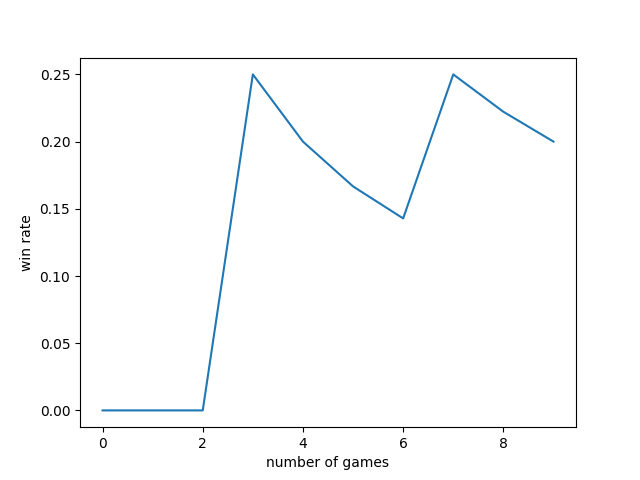
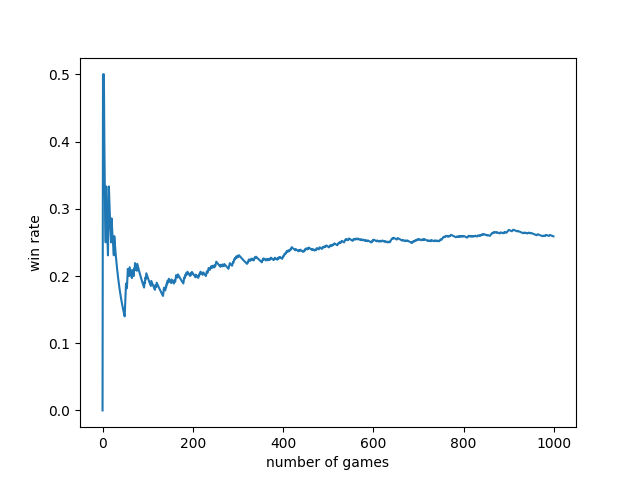
nothing much

diff --git a/Players/StrategyPlayer.py b/Players/StrategyPlayer.py
@@ -1,9 +1,74 @@
 from Players.Player import Player
 import numpy as np
 
+
 class StrategyPlayer(Player):
     def __init__(self):
         super(StrategyPlayer, self).__init__()
 
     def handle_move(self, obs: list, info: dict) -> np.ndarray:
-        return np.ndarray([0, 0, 1, 0])
+        self.index = info['player']
+        self.dice = info['eyes']
+
+        move = np.random.random_sample(size=4)
+
+        self.relative_position = Player.calculate_relative_position(self, obs)
+        future_obs = obs
+
+        current_pawn_position = self.relative_position.copy()
+        current_pawn_position = current_pawn_position.pop(0)
+        enemy_location = np.array(self.relative_position[1:5]).reshape((16, 1))
+
+        closest_pawn_front = np.argmax(enemy_location)
+        closest_pawn_behind = np.argmin(enemy_location)
+
+
+
+        min_pawn = np.argmin(current_pawn_position)
+        max_pawn = np.argmax(current_pawn_position)
+
+        if current_pawn_position[max_pawn] == 0:
+            return move
+
+        if enemy_location[closest_pawn_front] == self.dice:
+            i = 0
+            if 0 <= closest_pawn_front < 4:
+                i = 1
+            elif 4 <= closest_pawn_front <= 8:
+                i = 1
+            elif 8 <= closest_pawn_front < 12:
+                i = 1
+            elif 12 <= closest_pawn_front < 16:
+                i = 1
+            move[i] = 1
+            return move
+
+        if -6 < enemy_location[closest_pawn_behind] < 0:
+            i = 0
+            if 0 <= closest_pawn_behind < 4:
+                i = 1
+            elif 4 <= closest_pawn_behind <= 8:
+                i = 1
+            elif 8 <= closest_pawn_behind < 12:
+                i = 1
+            elif 12 <= closest_pawn_behind < 16:
+                i = 1
+
+            move[i] = 1
+            return move
+
+        if self.dice == 6:
+            if current_pawn_position[max_pawn] > 30:
+                move[max_pawn] = 1
+                return move
+            if current_pawn_position[min_pawn] == 0:
+                move[min_pawn] = 1
+                return move
+        for i in range(len(current_pawn_position)):
+            if current_pawn_position[i] == 1:
+                move[i] = 1
+                return move
+
+        move[max_pawn] = 1
+        return move
+

diff --git a/Environment/TrainEnv.py b/Environment/TrainEnv.py
@@ -4,6 +4,8 @@ import time
 from Players.RandomPlayer import RandomPlayer
 from Players.QPlayer import QPlayer
 from EnvFunctions import EnvFunctions
+from Players.StrategyPlayer import StrategyPlayer
+
 
 final_reward_list = []
 AGGREGATE_STATS_EVERY = 50
@@ -13,16 +15,16 @@ model_name = 'ludo'
 progress = []
 num_wins = 0
 # reset the game
-num_episodes = 500
+num_episodes = 10
 PLAYER2COLOR = ['Yellow', 'Red', 'Blue', 'Green']
 player1 = RandomPlayer()
 fun = EnvFunctions()
 
 training_player = QPlayer(model_name, epsilon=1, episodes=num_episodes)
-player3 = RandomPlayer()
+strategy_player = StrategyPlayer()
 player4 = RandomPlayer()
 # create a list of players
-players = [player1, training_player, player3, player4]
+players = [player1, training_player, strategy_player, player4]
 
 
 start_time = time.time()
@@ -45,8 +47,6 @@ for episode in range(1, num_episodes + 1):
         # pass the action and get the new game state
         obs, reward, done, info = env.step(action)
         # handle the reward
-        # if info['eyes'] == 6:
-        #     print()
 
         if isinstance(current_player, QPlayer):
             episode_reward += current_player.handle_reward(obs, info['player'])
@@ -57,7 +57,7 @@ for episode in range(1, num_episodes + 1):
         training_player.save_previous_obs(obs)
 
         # render for graphical representation of game state
-        # env.render()
+        env.render()
     # compute the winner / ranking
     scores = [sum([pos > 40 for pos in state]) for state in obs]  # no of pawns in target field for each player
     winner = np.argsort(scores)[-1]
@@ -79,7 +79,7 @@ for episode in range(1, num_episodes + 1):
         print('time per {} games: {}'.format(episode, end_time - start_time))
         print('win rate per {} games: {}'.format(episode, win_rate))
         training_player.update_tensorboard_stats(episode_rewards_list, win_rate, AGGREGATE_STATS_EVERY,
-                                                 time= end_time - start_time)
+                                                 time=(end_time - start_time))
 
     training_player.handle_endgame()
     progress.append(num_wins / episode)

diff --git a/Environment/TestEnv.py b/Environment/TestEnv.py
@@ -4,24 +4,30 @@ import time
 from Players.RandomPlayer import RandomPlayer
 from Players.LoadedQPlayer import LoadedQPlayer
 import matplotlib.pyplot as plt
+from Players.StrategyPlayer import StrategyPlayer
+from EnvFunctions import EnvFunctions
 
 AGGREGATE_STATS_EVERY = 50
 MIN_REWARD = -10
-progress = []
-num_wins = 0
+q_progress = []
+strategy_progress = []
 # reset the game
 num_episodes = 1000
 PLAYER2COLOR = ['Yellow', 'Red', 'Blue', 'Green']
 player1 = RandomPlayer()
 q_player = LoadedQPlayer()
-player3 = RandomPlayer()
+strategy_player = StrategyPlayer()
 player4 = RandomPlayer()
 # create a list of players
-players = [player1, q_player, player3, player4]
+players = [player1, q_player, strategy_player, player4]
 start = time.time()
+strategy_win = 0
+load_q_win = 0
+fun = EnvFunctions()
+
 for episode in range(1, num_episodes + 1):
     if episode % 100 == 0:
-        print("win per", episode, ":", num_wins)
+        print(episode, load_q_win, strategy_win)
 
     # create an instance of the game with 4 players
     env = make(num_players=4)
@@ -42,11 +48,14 @@ for episode in range(1, num_episodes + 1):
     winner = np.argsort(scores)[-1]
     # print(f'Player {players[winner].index} has won!', obs)
     if players[winner] == q_player:
-        num_wins += 1
+        load_q_win += 1
+    elif players[winner] == strategy_player:
+        strategy_win += 1
 
-    if episode % 20 == 0:
-        progress.append(num_wins/episode)
+    if episode > 20:
+        q_progress.append(load_q_win/episode)
+        strategy_progress.append(strategy_win/episode)
 
-print(num_wins)
-plt.plot(progress)
-plt.savefig('progress of test env.')
+fun.plot_array(strategy_progress, "strategy progress", x_label="number of games", y_label="win rate")
+fun.plot_array(q_progress, "Q progress", x_label="number of games", y_label="win rate")
+

diff --git a/Players/QPlayer.py b/Players/QPlayer.py
@@ -8,8 +8,6 @@ global Q_player
 class QPlayer(Player):
     def __init__(self, model_name: str, epsilon: float, episodes: int):
         super(QPlayer, self).__init__()
-        self.previous_obs = None
-        self.relative_position = None
         self.agent = Agent(model_name, discount_rate=0.7, learning_rate=0.01, episodes=episodes)
         self.epsilon = epsilon
         self.min_epsilon = 0.001
@@ -31,9 +29,6 @@ class QPlayer(Player):
         else:
             move = np.random.random_sample(size=4)
         return move
-
-    def save_previous_obs(self, obs: list):
-        self.previous_obs = obs
 
     def update_memory(self, action, reward, done):
 

diff --git a/Players/Player.py b/Players/Player.py
@@ -9,6 +9,7 @@ class Player:
         self.reward_list = []
         self.dice = None
         self.previous_obs = None
+        self.relative_position = None
 
     def load_model(self):
         pass
@@ -62,7 +63,10 @@ class Player:
     def handle_move(self, obs: list, info: dict):
         pass
 
-    def handle_nn_input(self, pos: list):
+    def handle_nn_input(self, pos: list,  ):
         pos = np.array(pos).reshape((20, 1))
         nn_input = np.append(pos, self.dice).reshape((21, 1))
         return nn_input
+
+    def save_previous_obs(self, obs: list):
+        self.previous_obs = obs

diff --git a/Environment/EnvFunctions.py b/Environment/EnvFunctions.py
@@ -11,9 +11,10 @@ class EnvFunctions:
         plt.xlabel(x_label)
         plt.ylabel(y_label)
         fig_name = name
-        for info in additional_infos:
-            fig_name += info
-            fig_name += "__"
+        if additional_infos is not None:
+            for info in additional_infos:
+                fig_name += info
+                fig_name += "__"
         plt.plot(array)
         plt.savefig('Figures/{}-{}.png'.format(fig_name, self.figure_count))
         self.figure_count += 1

diff --git a/Players/LoadedQPlayer.py b/Players/LoadedQPlayer.py
@@ -7,9 +7,8 @@ class LoadedQPlayer(Player):
     def __init__(self):
         super().__init__()
         self.loaded_model = tf.keras.models.\
-            load_model('/Users/hungnguyen/mensErgerJeNiet/models/ludo__model_1500__21-100-100-50-50-4__.model')
+            load_model('models/ludo__model_1500__21-100-100-50-50-4__.model')
         self.relative_position = None
-
 
     def handle_move(self, obs: list, info: dict):
         self.index = info['player']
